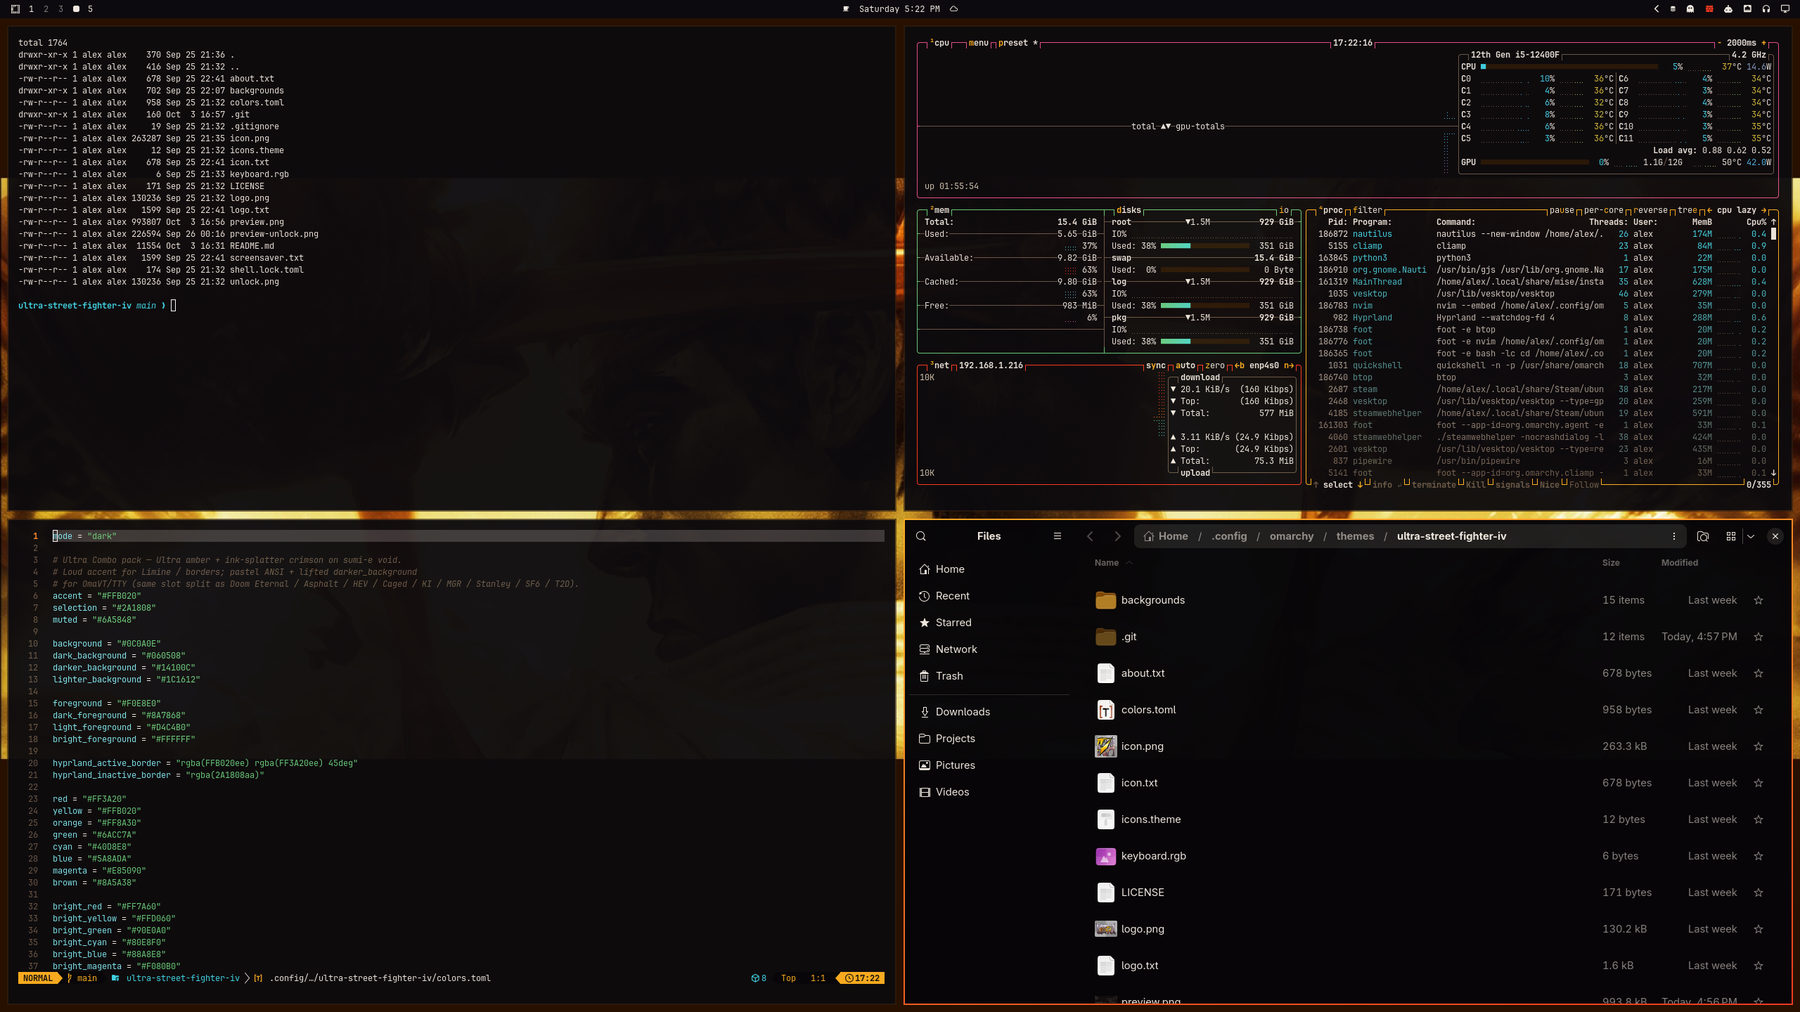
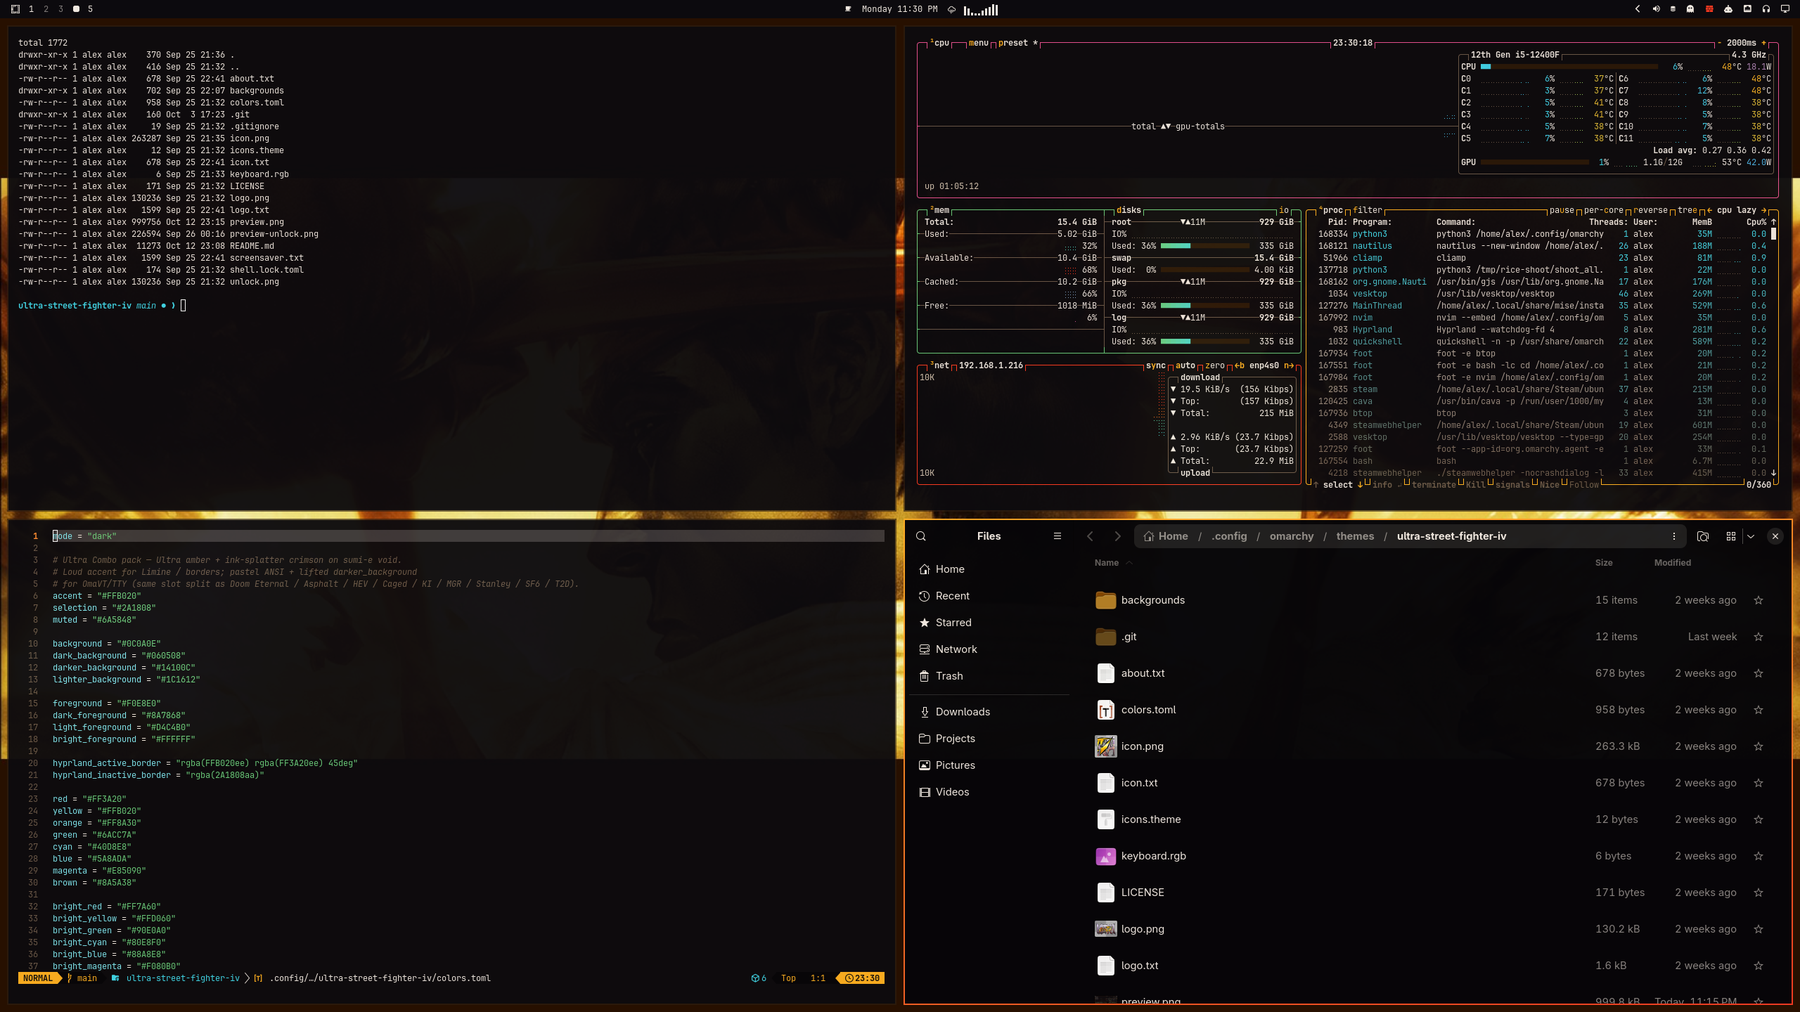
Refresh rice preview; drop backdrop cava mention from README.

diff --git a/README.md b/README.md
@@ -180,11 +180,6 @@ full wipe: `…/<plugin>/uninstall.sh --yes`.
   follows Omarchy themes live:  
   `omarchy plugin add https://github.com/ASwenia/omacord --enable`
 
-- **[Omarchy Cava](https://github.com/duncio/omarchy-cava)** — theme-aware audio
-  bars along the bottom of an empty workspace (hides when windows show up). Goes
-  well with your music when you're vibing:  
-  `omarchy plugin add https://github.com/duncio/omarchy-cava --enable`
-
 ### Agent / desktop bridge
 
 - **[OMCP](https://github.com/btsouth/omarchy-omcp)** — MCP desktop bridge:  
